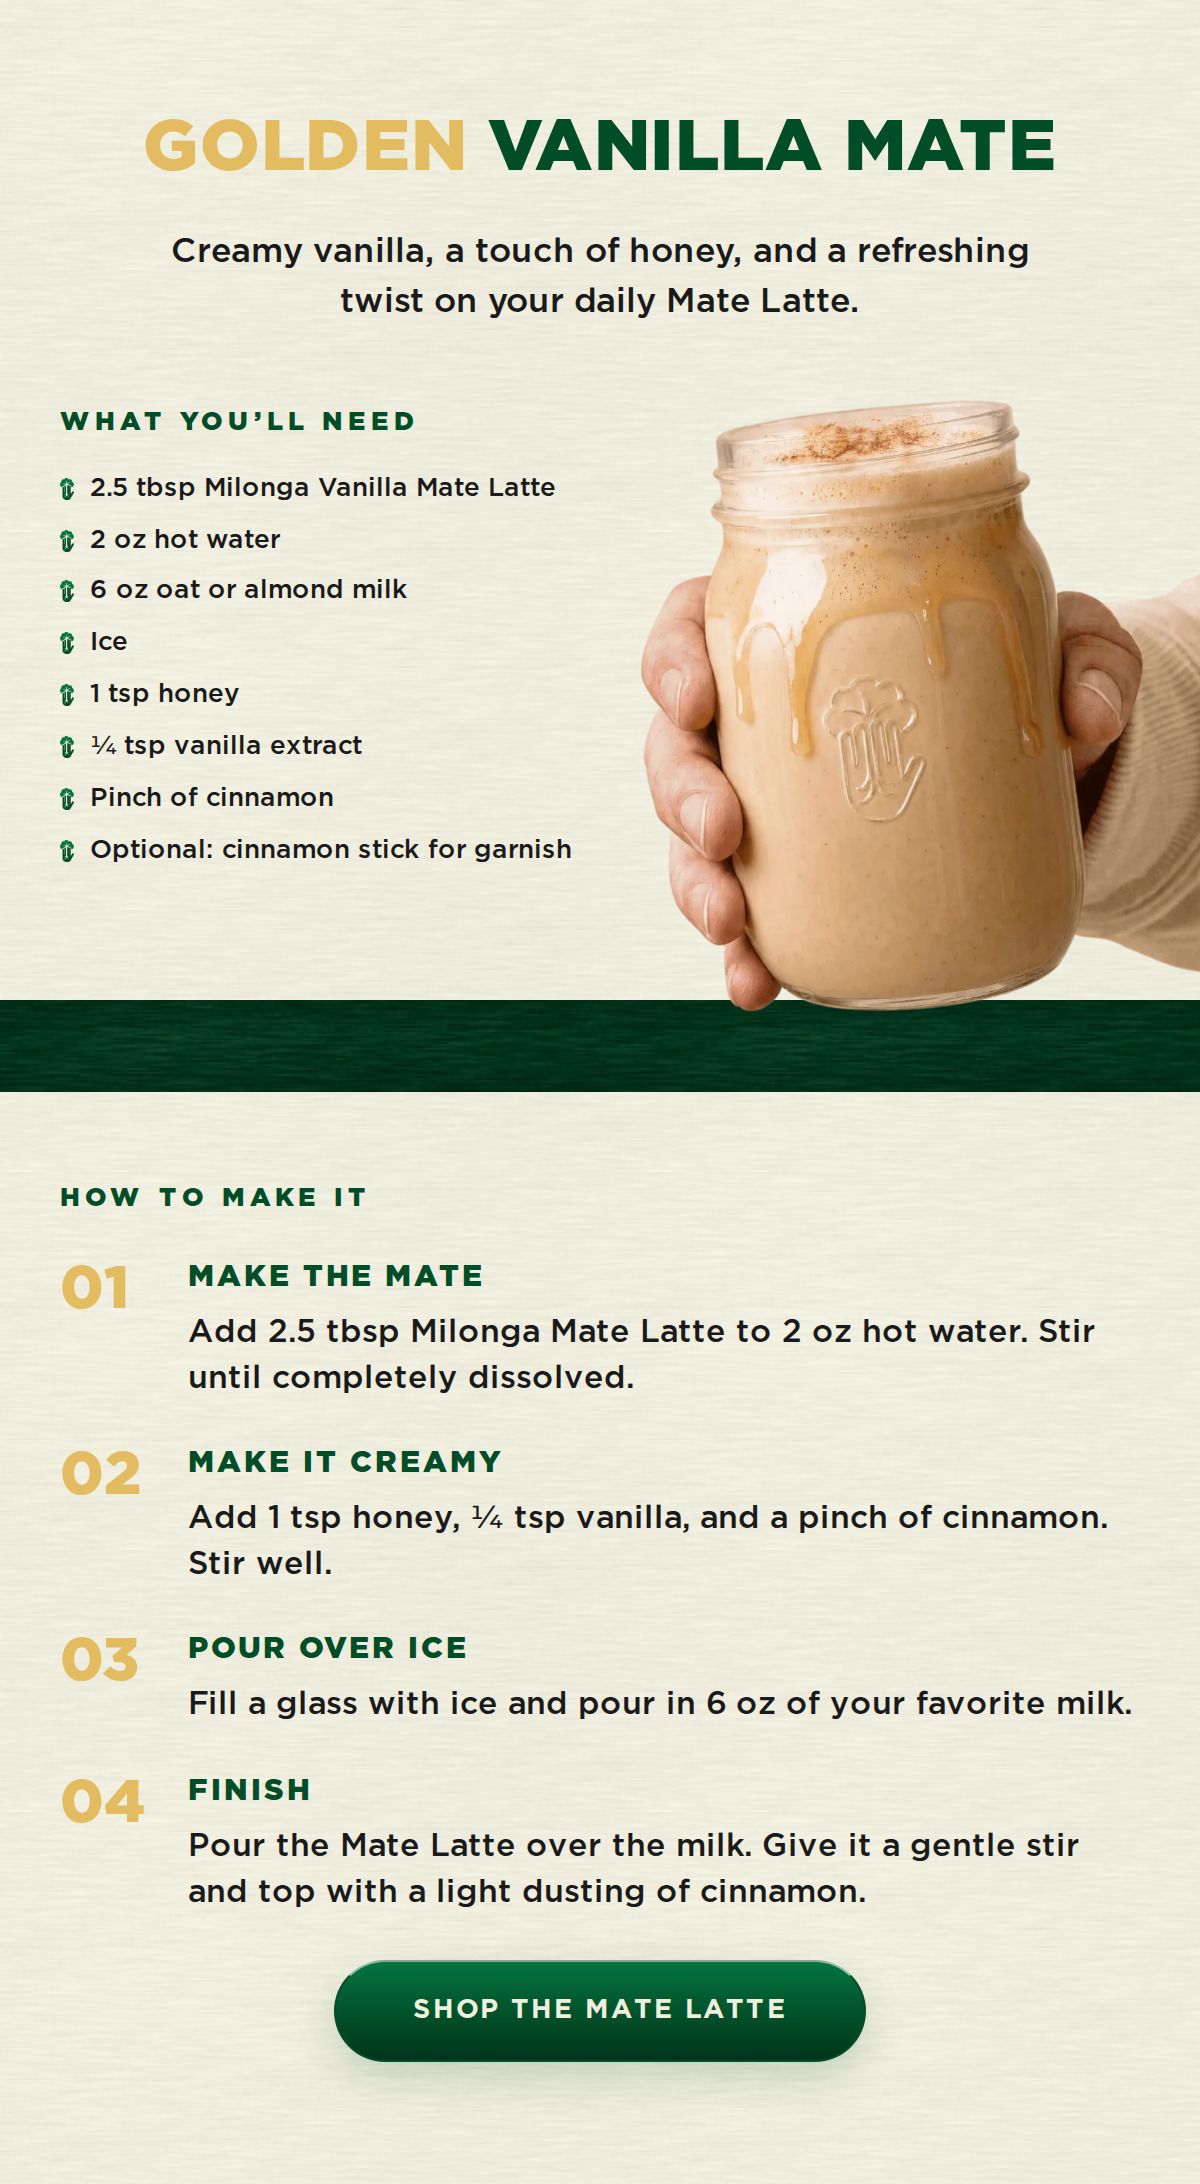
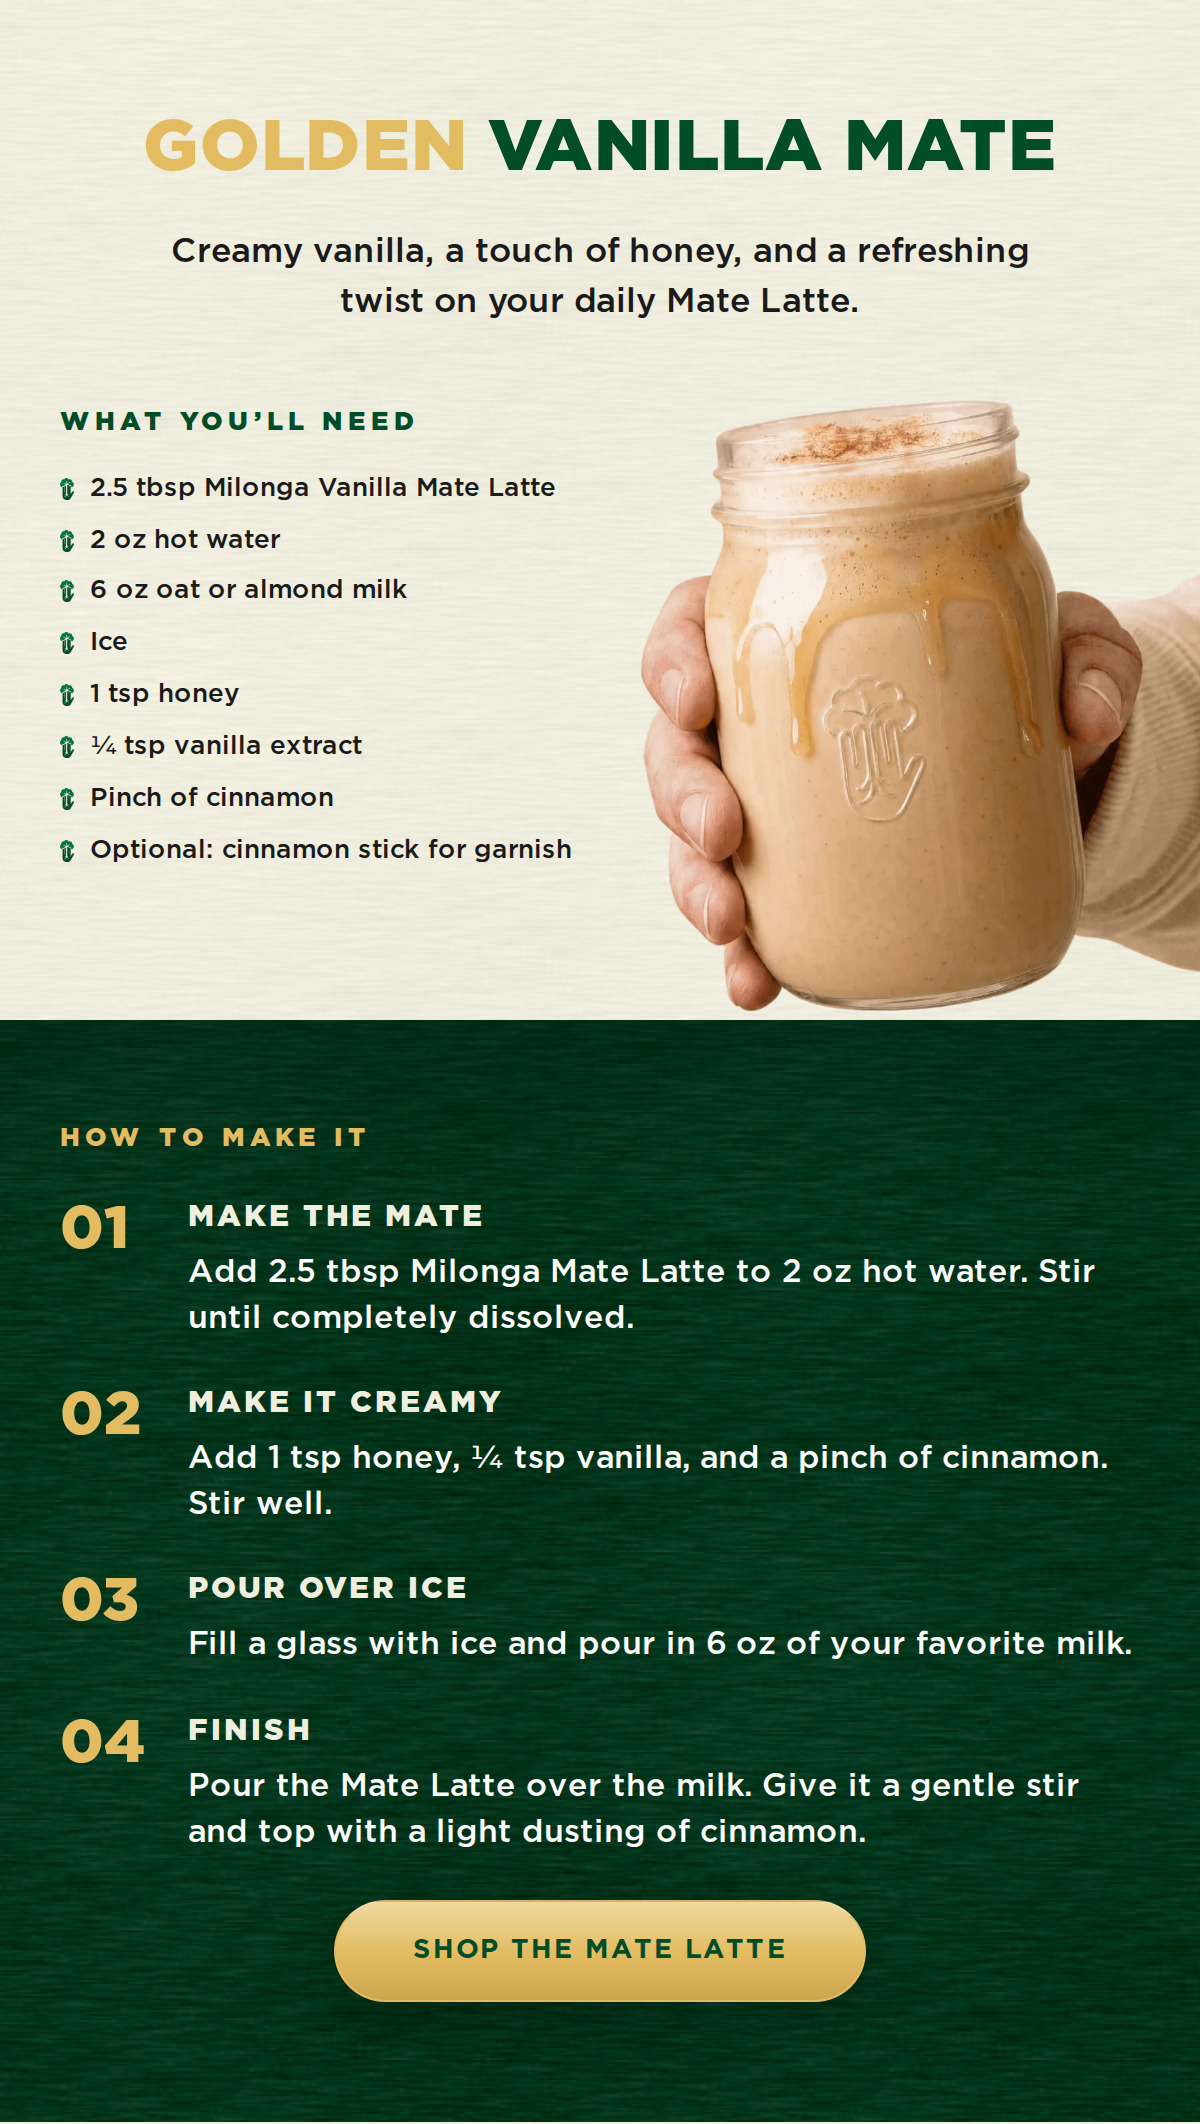
email: the green becomes the ground, not a band
Everything below the ingredients now sits on the deep green: the method, the
button, the foot of the email. The transition is where the page changes
ground and stays changed.

Same tile as before — this email's own paper grain recoloured, not
tile-forest, which is a different pattern altogether. So the fibre reads
identically across the seam and only the colour moves, which is what makes
the change read as one page rather than two emails stacked.

THE INK REVERSES WITH IT, on the contrast map's terms. Step titles go forest
-> cream, step copy near-black -> white, and the button inverts from a forest
fill with a cream label to a gold fill with a forest one. The eyebrow and the
numerals keep the gold they were given and are simply better off for it: on
beige that gold measured 1.56:1, and on this ground it is a real accent.

The darkening under the seam is now a short one rather than a gradient at
both edges — there is no bottom edge to mark.

Claude-Session: https://claude.ai/code/session_01NhEtXPnfeCJfN73SqBkUZ5

diff --git a/email-ds/emails/how-to-make-it.jsx b/email-ds/emails/how-to-make-it.jsx
@@ -89,7 +89,7 @@ function HowToMakeIt() {
     // without a clip here that overflow widened the whole page: the export
     // came out 1300 wide instead of 1200, with 100 units of the page's own
     // forest showing down the right-hand side.
-    h('div', { style: { ...M.bgStyle('beige', M.bgFill.beige, true), padding: '56px 30px 60px',
+    h('div', { style: { ...M.bgStyle('beige', M.bgFill.beige, true), padding: '56px 30px 56px',
       position: 'relative', overflow: 'hidden' } },
 
       h('div', { style: { textAlign: 'center' } },
@@ -154,34 +154,38 @@ function HowToMakeIt() {
                    height: 'auto', display: 'block', zIndex: 1 } }),
       ),
 
-      // THE BAND. A full-bleed strip of the SAME paper grain, recoloured to
-      // the palette's deep green — see scripts/make-forest-paper.mjs. It is
-      // not tile-forest, which is a different pattern altogether; it is this
-      // email's own tile with its grain carried across as a deviation from
-      // the paper's mean rather than as a colour, so the fibre reads the same
-      // and only the ground changes.
-      //
-      // 46 tall, which is the gap that already separates the blocks here, and
-      // 46 of air either side of it — so the break is the section's own
-      // rhythm rather than a new measurement. The negative margins take it
-      // past the 30-unit padding to the full 600, and the section's clip
-      // keeps the edges hard.
-      //
-      // A soft-edged band would have been the obvious move and the wrong one:
-      // the brief asks it to separate, and a gradient into beige separates
-      // nothing. The depth comes from the grain instead of from the edge.
-      h('div', { style: { height: 46, margin: '46px -30px 0',
-        backgroundColor: '#00351B',
-        backgroundImage: 'linear-gradient(180deg, rgba(0,26,13,0.34) 0%, rgba(0,26,13,0) 42%, rgba(0,26,13,0.3) 100%), url(../public/brand/textures/tile-paper-forest.jpg)',
-        backgroundSize: 'auto, 320px 320px',
-        backgroundRepeat: 'no-repeat, repeat' } }),
+    ),
+
+    // ── 3 · THE METHOD, ON THE DARK GROUND ────────────────────────────────
+    // The transition is not a band any more — it is where the email changes
+    // ground and stays changed. Everything from here down sits on the SAME
+    // paper grain, recoloured to the palette's deep green by
+    // scripts/make-forest-paper.mjs. It is not tile-forest, which is a
+    // different pattern altogether (the brand doodle); it is this email's own
+    // tile, so the fibre reads identically and only the colour moves.
+    //
+    // THE INK REVERSES WITH IT, on the contrast map's terms. Dark green takes
+    // cream titles and white body; the eyebrow and the numerals keep the gold
+    // they were given, which on this ground is a strong accent rather than
+    // the 1.56:1 it measured on beige. The button inverts too — gold fill,
+    // forest label — where on cream it was forest fill with cream label.
+    //
+    // A soft edge was the obvious move and the wrong one: the brief asks the
+    // change to read, and a gradient into beige reads as nothing. The depth
+    // comes from the grain and from a short darkening under the seam.
+    h('div', { style: {
+      backgroundColor: '#00351B',
+      backgroundImage: 'linear-gradient(180deg, rgba(0,26,13,0.34) 0%, rgba(0,26,13,0) 96px), url(../public/brand/textures/tile-paper-forest.jpg)',
+      backgroundSize: 'auto, 320px 320px',
+      backgroundRepeat: 'no-repeat, repeat',
+      padding: '52px 30px 60px' } },
 
       // THE METHOD. Four steps, numbered, set left — an ordered process is
       // the one place where a step's position matters as much as its name.
-      h('div', { style: { marginTop: 46, textAlign: 'left' } },
+      h('div', { style: { textAlign: 'left' } },
         h('div', { style: { fontFamily: 'Gotham, Montserrat, sans-serif', fontWeight: 900,
           fontSize: 13, letterSpacing: '0.2em', textTransform: 'uppercase',
-          color: '#004D27', marginBottom: 22 } }, 'How to make it'),
+          color: '#E3BC62', marginBottom: 22 } }, 'How to make it'),
         [
           ['01', 'Make the Mate', 'Add 2.5 tbsp Milonga Mate Latte to 2 oz hot water. Stir until completely dissolved.'],
           ['02', 'Make it Creamy', 'Add 1 tsp honey, ¼ tsp vanilla, and a pinch of cinnamon. Stir well.'],
@@ -195,15 +199,15 @@ function HowToMakeIt() {
           h('div', null,
             h('div', { style: { fontFamily: 'Gotham, Montserrat, sans-serif', fontWeight: 900,
               fontSize: 15, letterSpacing: '0.1em', textTransform: 'uppercase',
-              color: '#004D27', marginBottom: 7 } }, title),
+              color: '#F0EFDF', marginBottom: 7 } }, title),
             h('div', { style: { fontFamily: 'Gotham, Montserrat, sans-serif', fontWeight: 500,
-              fontSize: 16, lineHeight: 1.45, color: '#1A1A1A' } }, text),
+              fontSize: 16, lineHeight: 1.45, color: '#FFFFFF' } }, text),
           ),
         )),
       ),
 
       h('div', { style: { marginTop: 14, textAlign: 'center' } },
-        h(M.Button, { label: 'Shop the Mate Latte', href: '#shop', bg: 'beige' }),
+        h(M.Button, { label: 'Shop the Mate Latte', href: '#shop', bg: 'forest' }),
       ),
     ),
   );
